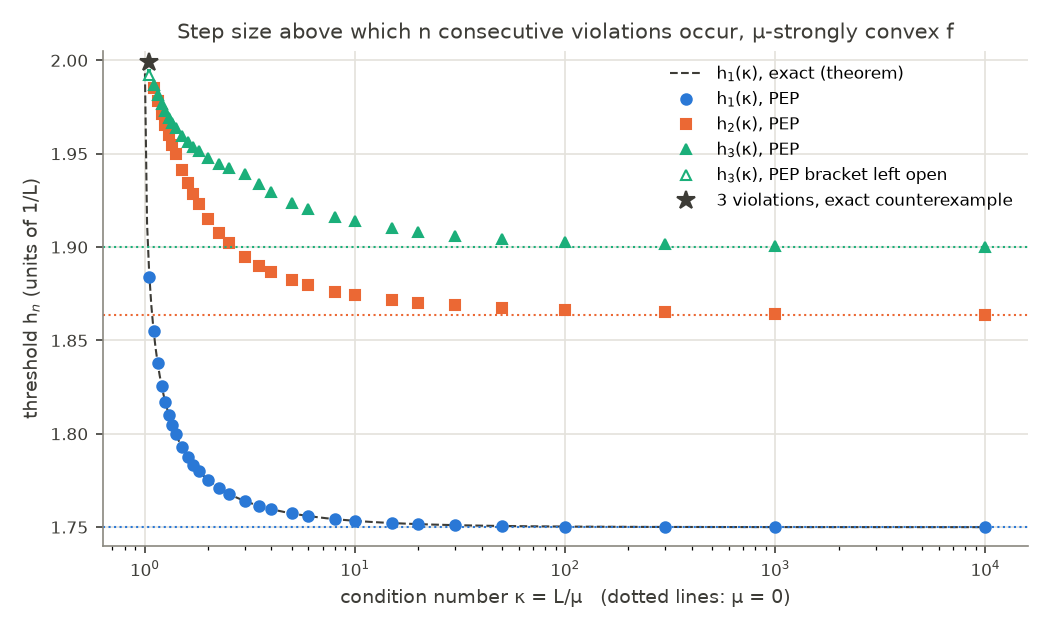
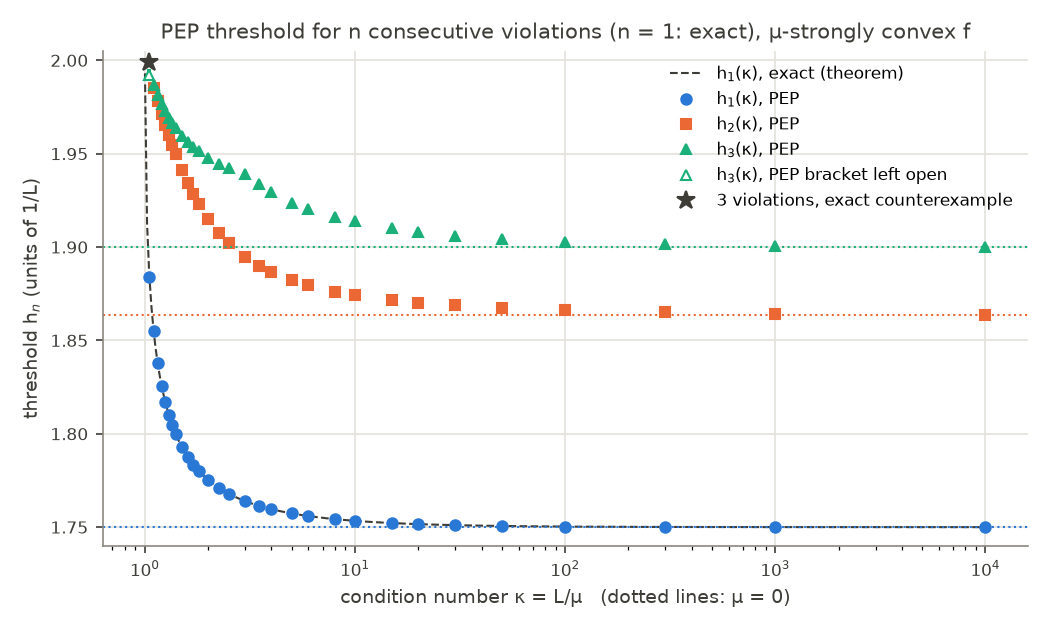
Threshold wording within what is proved; log of the 20 October literature check
* README section 1: heading "Consecutive violations happen; their PEP thresholds grow with n" (was "but only for
  larger steps"), and the exact data are described as bracketing each PEP threshold: two consecutive violations
  are impossible at 1.8634 and possible at 1.8635, which proves that the smallest bad step is at most 1.8635 (and
  at least 7/4); the lower end needs monotonicity in h, which is not proved. The bold "h_2 in [1.8634, 1.8635]"
  is gone.
* Arabic summary: the same correction; it said the threshold h_2 lies in [1.8634, 1.8635] without the caveat.
* Figure strong_threshold.png: title "PEP threshold for n consecutive violations (n = 1: exact)" instead of
  "Step size above which n consecutive violations occur", which presumed the interval structure for n >= 2.
* docs/literature-check-2026-10-20.md: the 20 October check query by query (papers and versions read, citing
  works per index, the 25 arXiv queries, Semantic Scholar, Google Scholar, zbMATH, web and GitHub searches with
  hit counts, what was not covered). It records that two Semantic Scholar queries were refused by the rate
  limit (one rerun on the website). README says the 18-19 October check left no log in the repository.

Changed region(s): [[0.1524, 0.0302, 0.9143, 0.0603]]

diff --git a/src/optcurves/figures.py b/src/optcurves/figures.py
@@ -87,7 +87,7 @@ def strong(plt):
     ax.set_ylim(1.74, 2.005)
     ax.set_xlabel("condition number κ = L/μ   (dotted lines: μ = 0)", color=INK, fontsize=9)
     ax.set_ylabel("threshold h$_n$ (units of 1/L)", color=INK, fontsize=9)
-    ax.set_title("Step size above which n consecutive violations occur, μ-strongly convex f",
+    ax.set_title("PEP threshold for n consecutive violations (n = 1: exact), μ-strongly convex f",
                  fontsize=10, color=INK)
     ax.legend(frameon=False, fontsize=8, loc="upper right")
     _axes(ax)

diff --git a/docs/literature-check-2026-10-20.md b/docs/literature-check-2026-10-20.md
@@ -1,0 +1,96 @@
+# Literature check of 20 October 2026: log
+
+Second literature check of the repository (summary in README, "Related work and literature check"). It covers the
+worst-case theorem of section 4, including its μ = 0 value h²(4h − 7)/(2(2 + h²)), and again the threshold h₁(κ).
+This log lists what was read and searched and what came back. The raw API responses were not stored; every query
+below can be rerun. A search that finds nothing is evidence, not proof, that a result is new.
+
+## Papers read
+
+| Paper | Versions | Read | Finding |
+|---|---|---|---|
+| Barzilai, Shamir, Zamani, *Are Convex Optimization Curves Convex?*, [arXiv:2503.10138](https://arxiv.org/abs/2503.10138) | v1 (13 Mar 2025), v2, v3 (28 Jun 2025, the TMLR camera-ready source), TMLR text (06/2025) | v3 in full from the LaTeX source; v1 and v2 by diffing their document bodies against v3 | Threshold 1.75/L, Huber-type counterexample from x₀ = −1.8, gradient norms monotone for η ≤ 2/L, gradient flow convex. No strong convexity and no size of a violation in any version. |
+| Le Duc Hieu, [arXiv:2509.08954](https://arxiv.org/abs/2509.08954) | v1, the only version | In full (LaTeX source) | Relative-inexact impossibility, local smoothness, quadratics convex up to 2/L, a two-step scheme, a no-go inequality. No size of a violation; "strongly" only in a bibliography title. |
+| H. Le Duc, L. Liberti, [arXiv:2510.12829](https://arxiv.org/abs/2510.12829) | v3 | Optimization-curve section | Seed results and 14 LLM conjectures; strong convexity only in conjecture 3, about the implicit (backward Euler) method. |
+| OpenAI, GPT-5 science report, [arXiv:2511.16072](https://arxiv.org/abs/2511.16072) | v1 | Section 1 (Bubeck) | GPT-5 Pro improved v1's 1/L to 1.5/L; internal models derived 1.75/L. Nothing on the size of a violation. |
+| Nagda, Raghavan, Thakurta, [arXiv:2509.18057](https://arxiv.org/abs/2509.18057) | latest | Context of the citation | Cites the paper only as an AI-assisted result later matched without AI. |
+
+Nearest prior result: the inequality that ends the proof of Theorem 1 of Barzilai et al. gives, for h > 7/4,
+v₁ ≤ (h/2 − 7/8)‖g₁ − g₀‖² ≤ h²(4h − 7)/8 · ‖x₀ − x*‖². That constant is (2 + h²)/4 times the exact one (checked in
+SymPy). In the gradient form the inequality holds with equality on the extremal one-dimensional data (checked in
+exact arithmetic at h = 9/5, 19/10 and 39/20); the slack is in ‖g₁ − g₀‖ ≤ h‖x₀ − x*‖.
+
+## Citing works of arXiv:2503.10138
+
+| Index | Result |
+|---|---|
+| Semantic Scholar Graph API | citationCount 1: Hieu. Hieu: 0 citing works. |
+| OpenAlex | Paper W6966804991, cited_by_count 0, `cites:` filter 0. Hieu W7081575489, cited_by_count 0. Recent works of Zamani and Shamir: none on optimization curves. |
+| Google Scholar | "Cited by 3": the GPT-5 report, Nagda–Raghavan–Thakurta, Hieu (the list had come back empty on 19 October). Le Duc–Liberti "Cited by 2": two AI surveys, unrelated. |
+
+## Keyword searches
+
+**arXiv API** (search_query, newest first, up to 60 results each), 25 queries. Relevant hits: only arXiv:2503.10138
+and arXiv:2509.08954.
+
+1. `all:"optimization curve"`
+2. `all:"optimization curves"`
+3. `abs:"optimization curve" AND abs:"strongly convex"`
+4. `abs:"optimization curve" AND abs:"worst-case"`
+5. `abs:"optimization curve" AND abs:"gradient descent"`
+6. `all:"convex optimization curves"`
+7. `abs:"convexity" AND abs:"gradient descent" AND abs:"1.75"`
+8. `all:"1.75/L"`
+9. `abs:"curve" AND abs:"convex" AND abs:"gradient descent" AND abs:"step size" AND abs:"concave"`
+10. `abs:"second difference" AND abs:"gradient descent"`
+11. `abs:"discrete convexity" AND abs:"gradient"`
+12. `abs:"function values" AND abs:"convex sequence" AND abs:"gradient"`
+13. `abs:"performance estimation" AND abs:"strongly convex" AND abs:"gradient descent" AND abs:"step size"`
+14. `abs:"worst-case" AND abs:"strongly convex" AND abs:"gradient descent" AND abs:"convexity" AND abs:"curve"`
+15. `abs:"Barzilai" AND abs:"Shamir"`
+16. `abs:"decrease" AND abs:"monotone" AND abs:"gradient descent" AND abs:"function value" AND abs:"differences"`
+17. `ti:"optimization curve"`
+18. `abs:"loss curve" AND abs:"convex" AND abs:"gradient descent" AND abs:"step size"`
+19. `abs:"convexity of the loss curve"`
+20. `abs:"performance estimation" AND abs:"function values" AND abs:"convexity" AND abs:"gradient descent"`
+21. `abs:"sequence of function values" AND abs:"convex" AND abs:"gradient descent" AND abs:"smooth"`
+22. `abs:"objective values" AND abs:"convex sequence"`
+23. `abs:"consecutive" AND abs:"decrease" AND abs:"gradient descent" AND abs:"smooth convex" AND abs:"step size"`
+24. `abs:"optimization curves" AND abs:"heavy ball"`
+25. `abs:"optimization curve" AND abs:"proximal"`
+
+**Semantic Scholar search.** Through the API: "optimization curve convex gradient descent", "optimization curve
+concave consecutive steps gradient descent", "worst-case convexity violation gradient descent function values";
+nothing relevant beyond the two papers. Two more queries were refused by the API's rate limit: "convexity
+optimization curve strongly convex" (then run on the website: nothing relevant on the first page) and "convex
+optimization curves step size 1.75" (not run).
+
+**Google Scholar.** The exact title; `"optimization curve" "gradient descent" convex "strongly convex"` (since 2025);
+`"optimization curve" convex "gradient descent" "worst-case" "step size"`; `"1.75/L" "strongly convex" "gradient
+descent"` (since 2025). Relevant hits: the papers above only.
+
+**zbMATH Open.** The paper is not indexed; "convex optimization curves" and the exact title return unrelated work.
+
+**Web search.** Three queries (optimization curve and strong convexity; follow-ups of the paper on the size of a
+violation; consecutive concave steps and performance estimation): nothing on the size of a violation.
+
+**GitHub.** Code search, with total hits: `"optimization curve" convex` (190), `"convex optimization curves"` (17),
+`"optimization curve" "strongly convex"` (15), `"optimization curve" convexity PEP` (3), `"optimization curve" "worst
+case"` (53), `"convex optimization curves" strongly` (14), `"optimization curve" "1.75"` (111), `"h**2*(4*h - 7)"` (0),
+`repo:PerformanceEstimation/PEPit curve` (0), `repo:pepflow-lib/PEPFlow curve` (3, all about rate curves in
+plots); also the arXiv ids `"2503.10138"` and `"2509.08954"`. The hits are arXiv listing mirrors, copies of the
+GPT-5 report and corpus copies of Hieu's paper. Two further queries were refused by the rate limit and not rerun.
+PEPit
+(master, last pushed 21 May 2026; release 0.5.1): no example on optimization curves and no example beyond 0.5.1.
+PEPFlow (main, last pushed 28 Sep 2026): its examples (gradient descent, AGM, APPM, DRS, OGM, OGM-G, PGM, Lyapunov)
+verify convergence rates only.
+
+## Not covered
+
+The OpenReview forum of the TMLR paper (id TZtpxselK2, reviews and discussion): both the page and the API asked for
+a browser verification, which was not bypassed.
+
+## Outcome
+
+Nothing found states the worst-case size of a curve violation, for convex or strongly convex f, or the threshold
+h₁(κ). The 18–19 October check left no log in this repository; only its summary in the README records it.

diff --git a/README.md b/README.md
@@ -41,7 +41,7 @@ Throughout, L = 1 (rescaling f covers every L), steps are h/L, and "convex" mean
 
 ## Results
 
-### 1. Consecutive violations happen, but only for larger steps
+### 1. Consecutive violations happen; their PEP thresholds grow with n
 
 | n consecutive violations | impossible at h = `[exact]` | possible at h = `[exact]` | PEP threshold h_n `[numerical]` |
 |---|---|---|---|
@@ -63,10 +63,11 @@ Throughout, L = 1 (rescaling f covers every L), steps are h/L, and "convex" mean
   theorem of Taylor, Hendrickx and Glineur (2017, Thm. 4), such data come from a genuine 1-smooth convex
   f: ℝ^d → ℝ with a minimizer; gradient descent from x₀ then visits exactly the stored points. The theorem is the
   only external input.
-* So each threshold is pinned to an interval of width 10⁻⁴: e.g. **h₂ ∈ [1.8634, 1.8635]** and
-  **h₃ ∈ [1.9, 1.9001]**, in the sense that violations are impossible at the left end and possible at the right
-  end. We did *not* prove that the set of bad step sizes is an interval (monotonicity in h); the PEP curves
-  in the figure below suggest it.
+* So the exact data bracket each PEP threshold within 10⁻⁴: two consecutive violations are impossible at
+  h = 1.8634 and possible at h = 1.8635, three at h = 1.9 and h = 1.9001, and so on. This proves that the smallest
+  step with n consecutive violations is at most the right end (and at least 7/4, by Barzilai et al.). That it is
+  at least the left end needs the set of bad step sizes to be an interval (monotonicity in h), which we did *not*
+  prove; the PEP curves in the figure below suggest it.
 * `[numerical]` PEP thresholds: PEPit 0.5.1, Clarabel 0.11.1, "no violation" = worst case ≤ 10⁻⁷, bisection on
   [1.5, 1.9999]. A point that Clarabel leaves "inaccurate" is solved again with SCS 3.3.1 (eps = 1e-9). If SCS does
   not reach "optimal" either, the point is *unresolved*: it decides nothing, the bisection tries another point of the
@@ -414,14 +415,21 @@ states the worst-case size of a violation, for convex or strongly convex f, or t
 OpenReview discussion of the TMLR paper, which sits behind a browser check. As above, this is evidence, not proof,
 that the results are new.
 
+Records: the 20 October check is logged query by query in
+[docs/literature-check-2026-10-20.md](docs/literature-check-2026-10-20.md) (two Semantic Scholar queries were
+refused by its rate limit; one was run on the website instead). The 18–19 October check left no log in this
+repository; only its summary above records it.
+
 ## ملخص بالعربية
 
 **السؤال:** هل يمكن أن يفقد منحنى التحسين k ↦ f(x_k) لطريقة الانحدار التدريجي بخطوة ثابتة h/L تحدّبه في عدة
 خطوات متتالية؟ هذا سؤال مفتوح طرحه Barzilai وShamir وZamani (مجلة TMLR، 2025).
 
 **ما ثبت:**
-- **[دقيق]** الانكساران المتتاليان مستحيلان عند h = 1.8634، وممكنان عند h = 1.8635. أي أن العتبة h₂ تقع في
-  [1.8634، 1.8635]. وبالمثل h₃ في [1.9، 1.9001]، وh₄ وh₅ وh₆ في فترات عرضها 10⁻⁴.
+- **[دقيق]** الانكساران المتتاليان مستحيلان عند h = 1.8634، وممكنان عند h = 1.8635. وبالمثل ثلاثة انكسارات:
+  مستحيلة عند 1.9 وممكنة عند 1.9001، ولأربعة وخمسة وستة نقطتان بينهما 10⁻⁴. فأصغر خطوة تسمح بانكسارين لا تتجاوز
+  1.8635. أما أنها لا تقل عن 1.8634 فيتطلب أن تكون الخطوات السيئة فترة، وهذا غير مبرهن (والقيمة العددية
+  h₂ ≈ 1.86345).
 - **[دقيق]** الاستحالة شهادة كسرية تصح لكل دالة محدبة L-ملساء في أي فضاء ضرب داخلي. والإمكان مثال مضاد ببيانات
   كسرية، يتحول إلى دالة فعلية بمبرهنة الاستيفاء لـ Taylor وHendrickx وGlineur (2017).
 - **[Lean]** ست مبرهنات (عند 9/5 و1.8634 لانكسارين، وعند 19/10 لثلاثة) تحققت منها نواة Lean مع Mathlib، ولا
